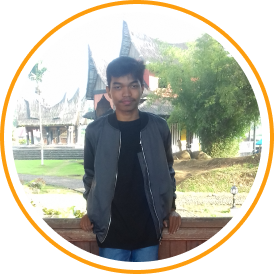
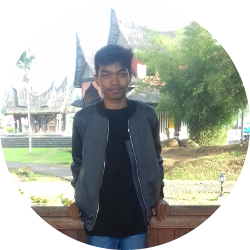
Updating Team Member

diff --git a/src/parts/Profile.js b/src/parts/Profile.js
@@ -1,7 +1,9 @@
 import React from "react";
+import Fade from "react-reveal/Fade";
 
-import Fadli from "../assets/images/fotofadli.png";
-import Febri from "../assets/images/febri.png";
+import Fadli from "../assets/images/Fadli.png";
+import Febri from "../assets/images/Febri.png";
+import Helfi from "../assets/images/Helfi.jpeg";
 import Facebook from "../assets/images/facebook.png";
 import Behance from "../assets/images/behance.png";
 import Github from "../assets/images/github.png";
@@ -24,91 +26,119 @@ export default function Profile(props) {
         </div>
 
         <div className="row justify-content-center">
-          <div className="col-lg-4 col-sm-12">
-            <div className="card">
-              <div className="card-body">
-                <img className="img-profile" src={Febri} alt="profile-1" />
-                <h1>Febri Wardhana</h1>
-                <p>Programmer</p>
-                <div className="social-media justify-content-center">
-                  <a href="https://www.facebook.com/febri.wardhana">
-                    <img
-                      className="social-media-logo"
-                      src={Facebook}
-                      alt="profile-1"
-                    />
-                  </a>
-                  <a href="https://www.linkedin.com/in/febri-wardhana-683bb4175/">
-                    <img
-                      className="social-media-logo"
-                      src={Linkedin}
-                      alt="profile-1"
-                    />
-                  </a>
-                  <a href="https://github.com/Lukuzushiki">
-                    <img
-                      className="social-media-logo"
-                      src={Github}
-                      alt="profile-1"
-                    />
-                  </a>
-                  <a href="https://www.instagram.com/febri_wardhana22/">
-                    <img
-                      className="social-media-logo"
-                      src={Instagram}
-                      alt="profile-1"
-                    />
-                  </a>
+          <Fade bottom delay={500}>
+            <div className="col-lg-4 col-sm-12">
+              <div className="card">
+                <div className="card-body">
+                  <img className="img-profile" src={Febri} alt="profile-1" />
+                  <h1>Febri Wardhana</h1>
+                  <p>Programmer</p>
+                  <div className="social-media justify-content-center">
+                    <a href="https://www.facebook.com/febri.wardhana">
+                      <img
+                        className="social-media-logo"
+                        src={Facebook}
+                        alt="profile-1"
+                      />
+                    </a>
+                    <a href="https://www.linkedin.com/in/febri-wardhana-683bb4175/">
+                      <img
+                        className="social-media-logo"
+                        src={Linkedin}
+                        alt="profile-1"
+                      />
+                    </a>
+                    <a href="https://github.com/Lukuzushiki">
+                      <img
+                        className="social-media-logo"
+                        src={Github}
+                        alt="profile-1"
+                      />
+                    </a>
+                    <a href="https://www.instagram.com/febri_wardhana22/">
+                      <img
+                        className="social-media-logo"
+                        src={Instagram}
+                        alt="profile-1"
+                      />
+                    </a>
+                  </div>
                 </div>
               </div>
             </div>
-          </div>
-          <div className="col-lg-4 col-sm-12">
-            <div className="card">
-              <div className="card-body">
-                <img className="img-profile" src={Fadli} alt="profile-1" />
-                <h1>Muhammad Fadli</h1>
-                <p>UI/UX Designer</p>
-                <div className="social-media">
-                  <a href="https://www.instagram.com/faadhlyy/">
-                    <img
-                      className="social-media-logo"
-                      src={Instagram}
-                      alt="profile-1"
-                    />
-                  </a>
-                  <a href="https://www.linkedin.com/in/muhamad-fadli-63375419b/">
-                    <img
-                      className="social-media-logo"
-                      src={Linkedin}
-                      alt="profile-1"
-                    />
-                  </a>
-                  <a href="https://www.behance.net/fadlymuhamad">
-                    <img
-                      className="social-media-logo"
-                      src={Behance}
-                      alt="profile-1"
-                    />
-                  </a>
-                  <a href="https://dribbble.com/fadly09">
-                    <img
-                      className="social-media-logo"
-                      src={Dribble}
-                      alt="profile-1"
-                    />
-                  </a>
-                  <a href="https://www.youtube.com/channel/UCyojWpiH2wPDlnYAf5kF3iA/videos?view_as=subscriber">
-                    <img
-                      className="social-media-logo"
-                      src={Youtube}
-                      alt="profile-1"
-                    />
-                  </a>
+          </Fade>
+
+          <Fade top delay={1000}>
+            <div className="col-lg-4 col-sm-12">
+              <div className="card">
+                <div className="card-body">
+                  <div className="wrapper-image">
+                    <img className="img-profile" src={Helfi} alt="profile-1" />
+                  </div>
+                  <h1>Helfi Setiani</h1>
+                  <p>Web Programmer</p>
+                  <div className="social-media">
+                    <a href="https://www.instagram.com/helfisetiani11/">
+                      <img
+                        className="social-media-logo"
+                        src={Instagram}
+                        alt="profile-1"
+                      />
+                    </a>
+                  </div>
                 </div>
               </div>
             </div>
-          </div>
+          </Fade>
+
+          <Fade bottom delay={1500}>
+            <div className="col-lg-4 col-sm-12">
+              <div className="card">
+                <div className="card-body">
+                  <img className="img-profile" src={Fadli} alt="profile-1" />
+                  <h1>Muhammad Fadli</h1>
+                  <p>Product Designer</p>
+                  <div className="social-media">
+                    <a href="https://www.instagram.com/faadhlyy/">
+                      <img
+                        className="social-media-logo"
+                        src={Instagram}
+                        alt="profile-1"
+                      />
+                    </a>
+                    <a href="https://www.linkedin.com/in/muhamad-fadli-63375419b/">
+                      <img
+                        className="social-media-logo"
+                        src={Linkedin}
+                        alt="profile-1"
+                      />
+                    </a>
+                    <a href="https://www.behance.net/fadlymuhamad">
+                      <img
+                        className="social-media-logo"
+                        src={Behance}
+                        alt="profile-1"
+                      />
+                    </a>
+                    <a href="https://dribbble.com/fadly09">
+                      <img
+                        className="social-media-logo"
+                        src={Dribble}
+                        alt="profile-1"
+                      />
+                    </a>
+                    <a href="https://www.youtube.com/channel/UCyojWpiH2wPDlnYAf5kF3iA/videos?view_as=subscriber">
+                      <img
+                        className="social-media-logo"
+                        src={Youtube}
+                        alt="profile-1"
+                      />
+                    </a>
+                  </div>
+                </div>
+              </div>
+            </div>
+          </Fade>
         </div>
       </div>
     </section>

diff --git a/src/assets/scss/styles.scss b/src/assets/scss/styles.scss
@@ -251,10 +251,14 @@ header {
     .card-body {
       background-color: $white;
       padding: 45px 16px 52px 16px;
+
       .img-profile {
         height: 137px;
         width: 137px;
+        border-radius: 70px;
         margin: 0 0 28px 14px;
+        border: 2px solid #fd9d0e;
+        padding: 6px;
       }
 
       h1 {

diff --git a/src/parts/Services.js b/src/parts/Services.js
@@ -61,7 +61,7 @@ export default function Project() {
         </div>
 
         <div className="text-center">
-          <Zoom delay={1800}>
+          <Zoom delay={1500}>
             <Button
               className="btn px-4 py-3"
               type="link"
